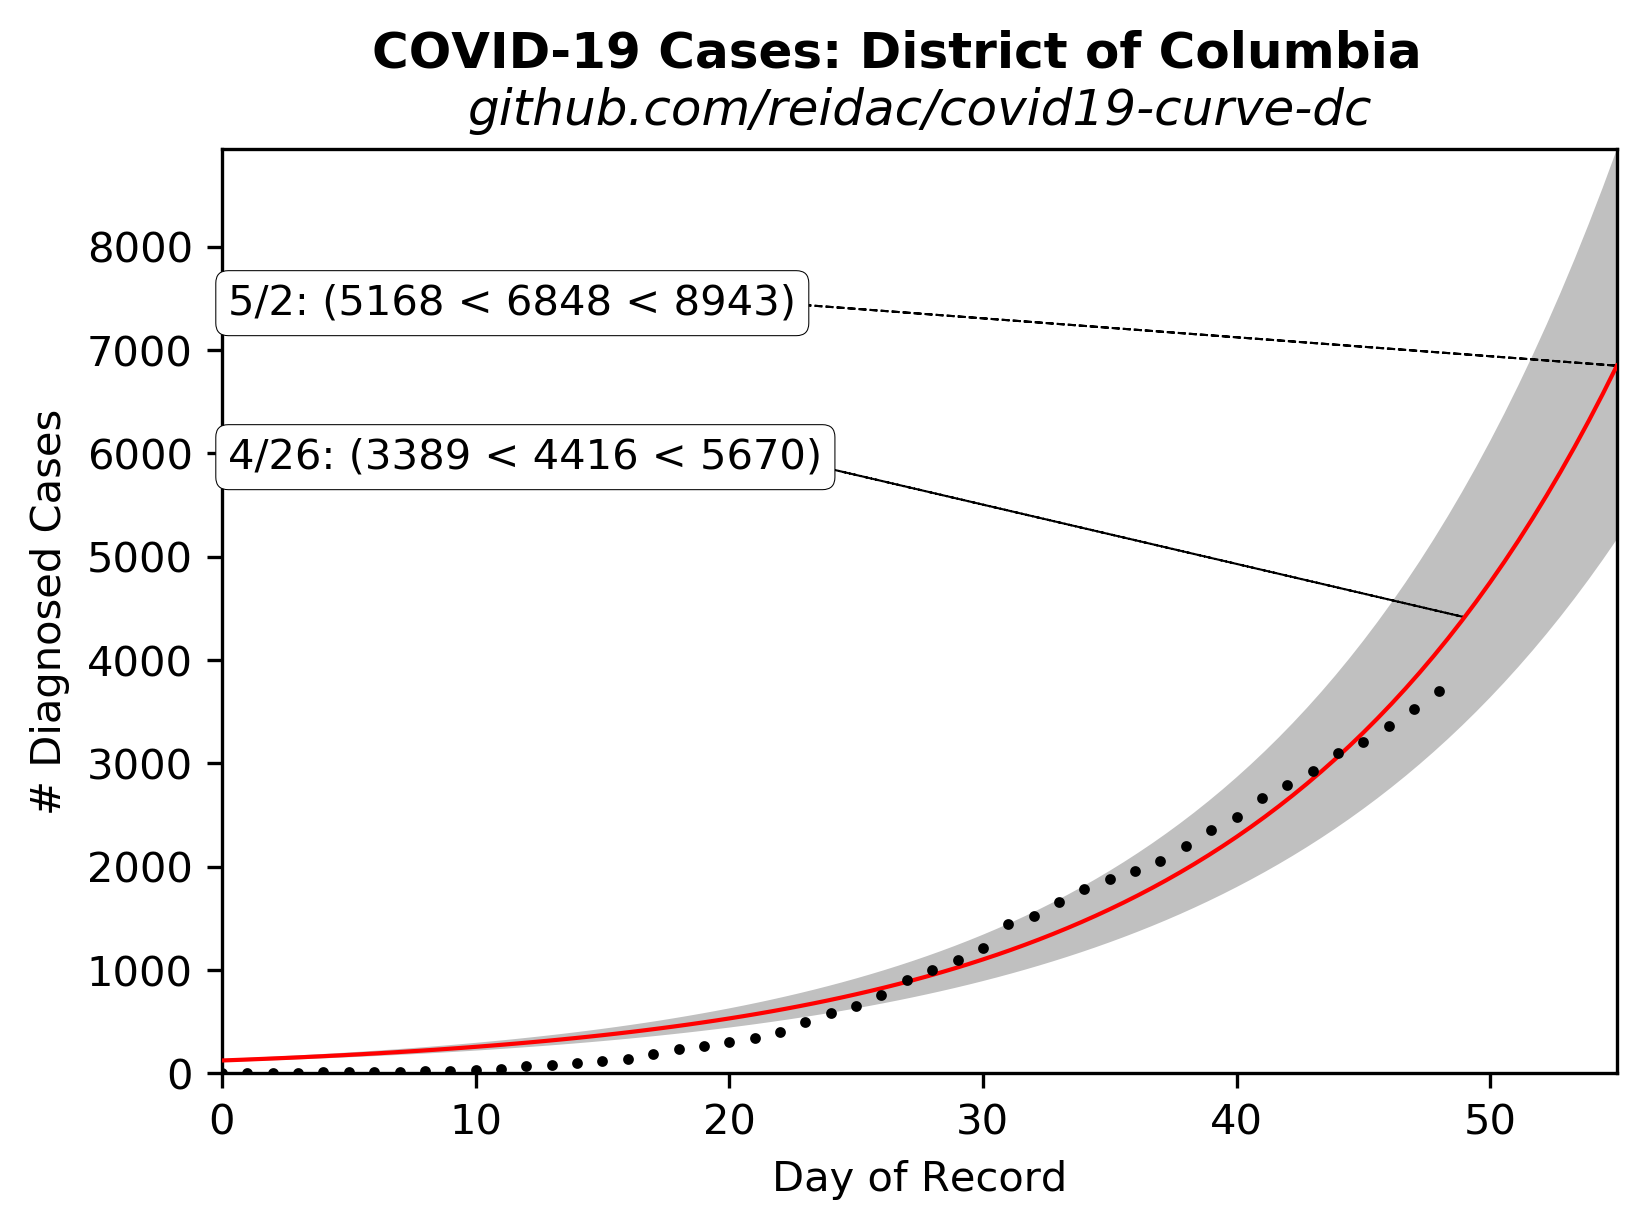
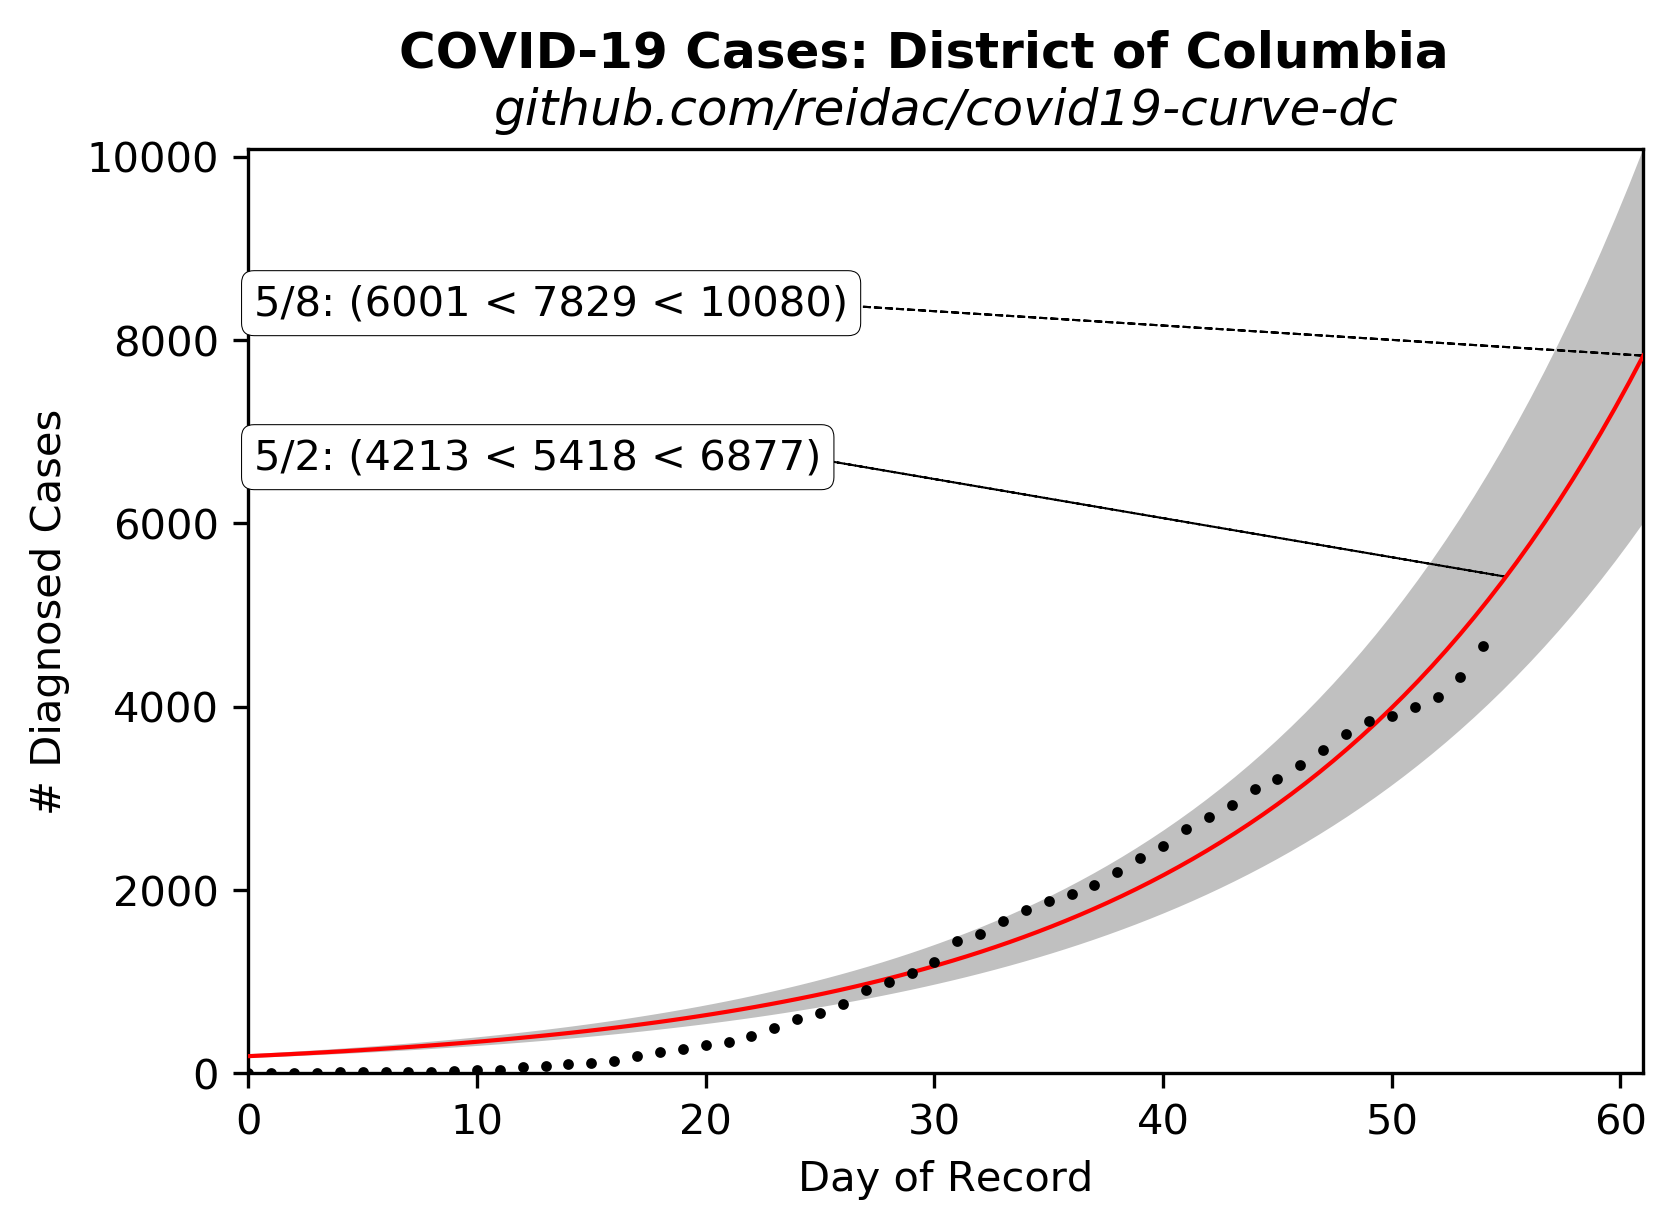
New URL, data for May 1.

diff --git a/get_dc_data.py b/get_dc_data.py
@@ -9,7 +9,7 @@ from datetime import date
 import numpy as np
 from time import strptime
 
-URL="https://covidtracking.com/api/states/daily?state=DC"
+URL="https://covidtracking.com/api/v1/states/DC/daily.json"
 
 # Container, so we can pass the offset to the day of record.
 class CaseData:
@@ -33,8 +33,10 @@ def retrieve():
     caselist = []
     # Step 0: Make a list of case data, and exclude days with zero cases.
     for ji in jsn:
+        # print(str(ji['date']) )
         dbj = strptime(str(ji['date']),'%Y%m%d')
         daynumber = date(dbj.tm_year,dbj.tm_mon, dbj.tm_mday).toordinal()
+        # print(ji['positive'])
         casecount = int(ji['positive'])
         if casecount>0:
             daylist.append(daynumber)
